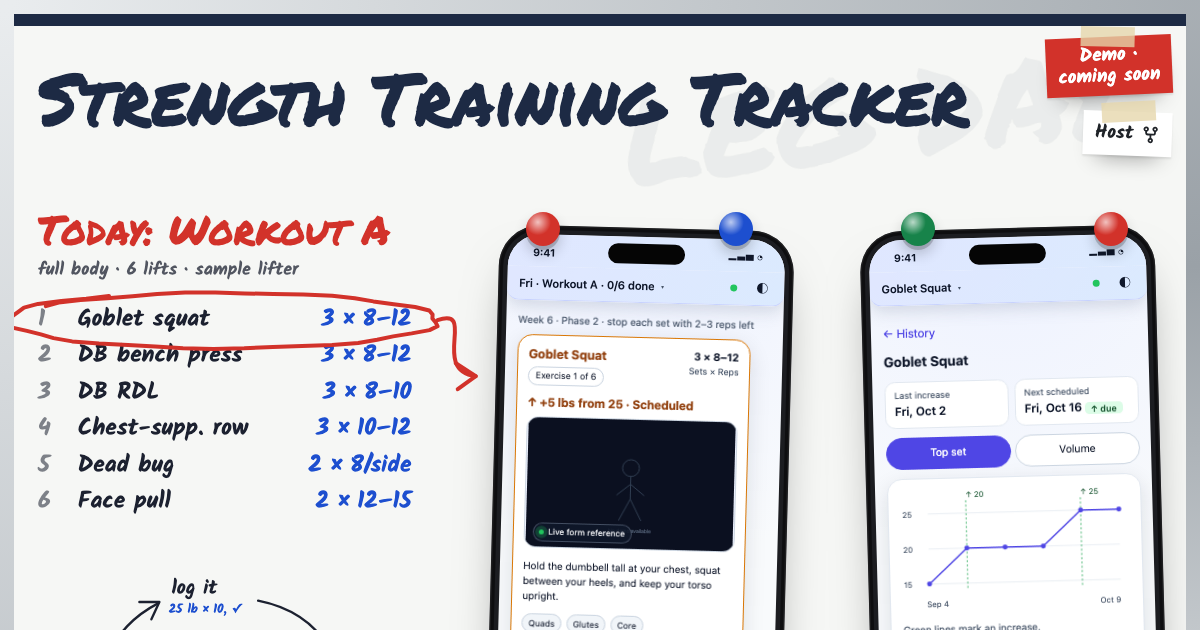
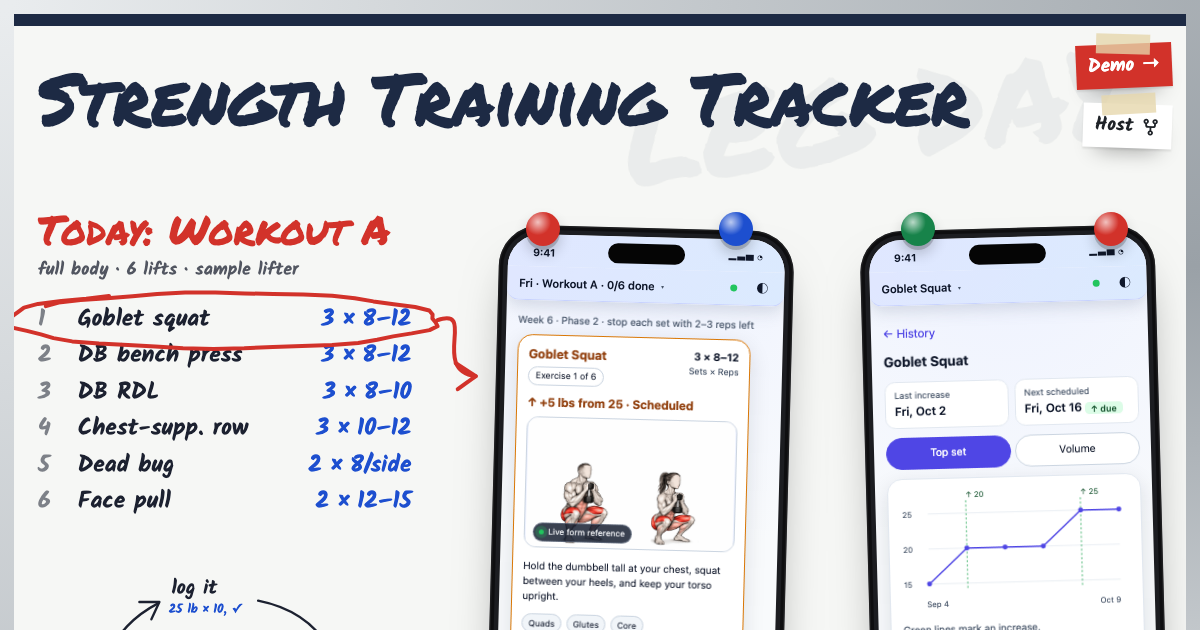
Demo: placeholders link to the full app; landing previews use the demo's art
The demo adds "No animation for this exercise in the demo. Get the full app" (a link to the landing page's
ways section) under each big placeholder image and keeps every Options and TRX list whole. The art list moves to
demo/media.js, shared with the landing page's phone previews, which now show demo/media/ images (and the placeholder
for the rest) instead of trying app/img. landing/preview.png is regenerated (it still said "Demo coming soon").
Spec, README, footnote and media audit updated; tests cover the note and that the landing script requests no app/img.

Changed region(s): [[0.4317, 0.6635, 0.6167, 0.8746], [0.8633, 0.0302, 0.9867, 0.2714]]

diff --git a/landing/phone-preview.js b/landing/phone-preview.js
@@ -6,8 +6,8 @@
 // createPreview() returns a controller. mount() draws a workout or history screen into a container, and every mounted screen shows the
 // same exercise and follows the same slide. The page calls go(i) when someone picks a lift in its list.
 //
-// Images. Every image slot tries the app's own file first (app/img/<file>, which exists on a developer's machine) and falls back to the
-// app's placeholder (PLACEHOLDER_GIF) when it is missing, as it is on GitHub Pages. Each file is tried once.
+// Images. An exercise with original art (demo/media.js lists them) shows its animated figure from demo/media/; every other image slot
+// shows the app's placeholder (PLACEHOLDER_GIF). No third-party image is requested, so the page looks the same everywhere.
 
 import { h } from '../app/js/ui/dom.js';
 import { createDial } from '../app/js/ui/dial.js';
@@ -16,6 +16,7 @@ import { dialNotches, formatNumber } from '../app/js/logging/input.js';
 import { formatDay, increaseText, lastText, phaseText, setsText } from '../app/js/logging/text.js';
 import { EXERCISES, PLACEHOLDER_GIF } from '../app/js/seed/index.js';
 import { WORKOUTS } from '../app/js/seed/program.js';
+import { DEMO_MEDIA, mediaPath } from '../demo/media.js';
 
 // Today in the story is Fri Oct 16. Workout A was done every Friday since Sep 4 (six sessions).
 const DATES = ['2026-09-04', '2026-09-11', '2026-09-18', '2026-09-25', '2026-10-02', '2026-10-09'];
@@ -38,7 +39,7 @@ const SLIDES = slots.map((slot, i) => {
     sets: syn.reps[k].map((reps) => ({ weightLbs: syn.weights[k], reps, levelNumber: null, distanceM: null })),
   }));
   return {
-    id: slot.exercise, index: i, name: ex.name, gifUrl: ex.gifUrl, notes: ex.notes, tags: ex.tags,
+    id: slot.exercise, index: i, name: ex.name, notes: ex.notes, tags: ex.tags,
     prescription: `${slot.sets} × ${slot.reps}`, sets: Number(slot.sets),
     options: slot.alternatives, trx: slot.trxAlternatives,
     increased, next: syn.next, repsNow: syn.repsNow, sessions,
@@ -49,17 +50,11 @@ const SLIDES = slots.map((slot, i) => {
   };
 });
 
-// ---- images: the app's file first, then the placeholder ----
-// The big card images each try their own file. The small thumbnails in the Options and TRX lists only try theirs when the first card's
-// image was found, so a site without app/img (GitHub Pages) makes three failed requests rather than sixteen.
-const known = new Map(); // file -> true when it loaded, false when it did not
-const folderMissing = () => known.get(SLIDES[0].gifUrl) === false;
-function image(gifUrl, props, { thumb = false } = {}) {
-  if (!gifUrl || (thumb && folderMissing())) known.set(gifUrl, false); // no image of its own (as in the app), or the folder is absent
-  const src = `app/${gifUrl}`; // relative to the landing page (the site root)
-  const img = h('img', { alt: '', loading: 'eager', decoding: 'async', referrerpolicy: 'no-referrer', ...props, src: known.get(gifUrl) === false ? PLACEHOLDER_GIF : src });
-  img.addEventListener('error', () => { known.set(gifUrl, false); img.src = PLACEHOLDER_GIF; }, { once: true });
-  img.addEventListener('load', () => { if (!img.src.startsWith('data:')) known.set(gifUrl, true); });
+// ---- images: the demo's own art, else the placeholder ----
+// The path is relative to the landing page (the site root).
+function image(id, props) {
+  const img = h('img', { alt: '', loading: 'eager', decoding: 'async', referrerpolicy: 'no-referrer', ...props, src: DEMO_MEDIA.includes(id) ? `demo/${mediaPath(id)}` : PLACEHOLDER_GIF });
+  img.addEventListener('error', () => { img.src = PLACEHOLDER_GIF; }, { once: true });
   return img;
 }
 
@@ -79,7 +74,7 @@ function altPanel(slide, group) {
   const ids = group === 'trx' ? slide.trx : slide.options;
   return h('div', { class: 'alt-panel', 'data-group': group === 'trx' ? 'trxAlternatives' : 'alternatives', role: 'group' },
     ids.map((id) => h('div', { class: 'alt-item' },
-      h('div', { class: 'alt-thumb' }, image(EXERCISES[id].gifUrl, { width: 56, height: 42 }, { thumb: true })),
+      h('div', { class: 'alt-thumb' }, image(id, { width: 56, height: 42 })),
       h('div', { class: 'alt-name', text: EXERCISES[id].name }),
       h('button', { type: 'button', class: 'alt-use', tabindex: '-1', text: 'Use this' }))));
 }
@@ -103,7 +98,7 @@ function workoutScreen(slide, dials) {
         h('div', { class: 'ex-meta' }, h('strong', { text: slide.prescription }), h('span', { text: 'Sets × Reps' }))),
       slide.increaseText ? h('p', { class: 'up', text: slide.increaseText }) : null),
     h('div', { class: 'ex-media' },
-      h('div', { class: 'gif-wrapper' }, image(slide.gifUrl, { width: 640, height: 400, alt: `${slide.name} demonstration` }), h('div', { class: 'gif-label' }, h('span'), 'Live form reference'))),
+      h('div', { class: 'gif-wrapper' }, image(slide.id, { width: 640, height: 400, alt: `${slide.name} demonstration` }), h('div', { class: 'gif-label' }, h('span'), 'Live form reference'))),
     h('div', { class: 'ex-rest' },
       h('div', { class: 'exercise-body', text: slide.notes }),
       h('div', { class: 'tags' }, slide.tags.map((t) => h('span', { class: 'tag', text: t }))),
@@ -209,14 +204,7 @@ export function createPreview({ interval = 7500 } = {}) {
       return device;
     },
     onChange(fn) { listeners.push(fn); },
-    // The first card's image decides whether app/img exists; wait for that before drawing so the thumbnails know.
     async start() {
-      await new Promise((resolve) => {
-        const probe = new Image();
-        probe.addEventListener('load', () => { known.set(SLIDES[0].gifUrl, true); resolve(); });
-        probe.addEventListener('error', () => { known.set(SLIDES[0].gifUrl, false); resolve(); });
-        probe.src = `app/${SLIDES[0].gifUrl}`;
-      });
       render();
       restart();
     },

diff --git a/demo/demo-ui.js b/demo/demo-ui.js
@@ -3,50 +3,50 @@
 // same Reset button and a link back to the landing page). Kept here, outside app/, so scripts/deploy-app.sh never uploads it.
 
 import { clearProfile, DEMO_PROFILE } from '../app/js/profile.js';
-import { EXERCISES } from '../app/js/seed/index.js';
+import { EXERCISES, PLACEHOLDER_GIF } from '../app/js/seed/index.js';
 import { pacificDate } from '../app/js/time.js';
 import { armedIconButton, h, svgIcon } from '../app/js/ui/dom.js';
 import { buildFixture } from './fixture.js';
+import { DEMO_MEDIA, mediaPath } from './media.js';
+
+export { DEMO_MEDIA, mediaPath };
 
 export const STRIP_TEXT = 'Demo · a fictional lifter · changes stay in this browser';
 export const LANDING_URL = '../';
 const RESET_PATHS = ['M3 12a9 9 0 1 0 3-6.7', 'M3 4v5h5'];
 
-// The demo's own exercise art: original animated figures drawn for this project (demo/media/<exercise id>.gif, MIT with the repository).
-// The catalog's gifUrl values ("img/<name>.gif") point at third-party files that are not published, so the page's copy of the catalog
-// gets the demo's own file for each exercise listed here and no image path for the rest: those image slots show the app's built-in
-// placeholder (PLACEHOLDER_GIF, a data: URI) without asking for a missing file. The art credit goes too, since the demo has no
-// third-party art to credit. Only this page's copy of the catalog changes. Add an id here together with its file.
-export const DEMO_MEDIA = [
-  'back-extension-45',
-  'chest-supported-row',
-  'db-bench-press',
-  'db-romanian-deadlift',
-  'face-pull',
-  'farmer-carry',
-  'goblet-squat',
-  'hip-thrust',
-  'incline-db-press',
-  'lat-pulldown',
-  'leg-press',
-  'machine-chest-press',
-  'machine-high-row',
-  'pushup',
-  'reverse-lunge',
-  'seated-cable-row',
-  'seated-db-shoulder-press',
-  'trap-bar-deadlift',
-];
-
-// Relative to demo/index.html.
-export const mediaUrl = (id) => `media/${id}.gif`;
-
+// The demo's own exercise art (demo/media.js lists it; the files are in demo/media/). The catalog's gifUrl values ("img/<name>.gif")
+// point at third-party files that are not published, so the page's copy of the catalog gets the demo's own file for each listed
+// exercise and no image path for the rest: those image slots show the app's built-in placeholder (PLACEHOLDER_GIF, a data: URI)
+// without asking for a missing file. The art credit goes too, since the demo has no third-party art to credit. Only this page's
+// copy of the catalog changes.
 export function useDemoMedia(exercises = EXERCISES, media = DEMO_MEDIA) {
   for (const [id, exercise] of Object.entries(exercises)) {
-    if (media.includes(id)) exercise.gifUrl = mediaUrl(id);
+    if (media.includes(id)) exercise.gifUrl = mediaPath(id);
     else delete exercise.gifUrl;
     delete exercise.attribution;
   }
+}
+
+// Under every big image that is only the placeholder, a line that says why and where to get the real thing: the landing page's "three
+// ways to run it". The app draws the image; this adds the line next to it, and takes it away again if the image becomes real.
+// markPlaceholders is idempotent, so watchPlaceholders can run it after every change to the page.
+export function markPlaceholders(root = document) {
+  for (const wrapper of root.querySelectorAll('.gif-wrapper')) {
+    const holder = wrapper.parentNode;
+    const note = holder.querySelector('.demo-get-app');
+    const placeholder = wrapper.querySelector('img')?.getAttribute('src') === PLACEHOLDER_GIF;
+    if (placeholder && !note) {
+      holder.append(h('p', { class: 'demo-get-app' }, 'No animation for this exercise in the demo. ', h('a', { href: `${LANDING_URL}#ways`, text: 'Get the full app' })));
+    } else if (!placeholder && note) note.remove();
+  }
+}
+
+export function watchPlaceholders(root = document.body) {
+  if (typeof MutationObserver === 'undefined') return;
+  const observer = new MutationObserver(() => markPlaceholders(root));
+  observer.observe(root, { childList: true, subtree: true, attributes: true, attributeFilter: ['src'] });
+  markPlaceholders(root);
 }
 
 // reload: how the page restarts after a reset (by default, the demo's Home: the same address without the #/route). now: the clock that

diff --git a/index.html b/index.html
@@ -156,7 +156,7 @@
           <a class="marker" style="--c: #d2322a; --r: .8deg" href="https://github.com/kathishah/strength">Fork on GitHub</a>
           <span class="eraser">Demo resets with one tap</span>
         </div>
-        <p class="footnote">Every number on this board is made up. The private instance is separate from the demo and is not a service for forks. Code and docs are MIT licensed; exercise images are not included. The board's fonts (Permanent Marker, Kalam, Atkinson Hyperlegible) are served from this site; their <a href="https://github.com/kathishah/strength/tree/main/landing/fonts">licenses</a> are in the repository.</p>
+        <p class="footnote">Every number on this board is made up. The private instance is separate from the demo and is not a service for forks. Code, docs and the demo's exercise animations are MIT licensed; third-party exercise images are not included. The board's fonts (Permanent Marker, Kalam, Atkinson Hyperlegible) are served from this site; their <a href="https://github.com/kathishah/strength/tree/main/landing/fonts">licenses</a> are in the repository.</p>
       </div>
     </footer>
   </div>

diff --git a/demo/media.js b/demo/media.js
@@ -1,0 +1,26 @@
+// The exercises that have original art in demo/media/<exercise id>.gif: animated figures drawn for this project (MIT with the
+// repository). One list for the demo page and the landing page's phone previews; add an id here together with its file.
+// Every other exercise shows the app's built-in placeholder (PLACEHOLDER_GIF). Paths are relative to demo/.
+
+export const DEMO_MEDIA = [
+  'back-extension-45',
+  'chest-supported-row',
+  'db-bench-press',
+  'db-romanian-deadlift',
+  'face-pull',
+  'farmer-carry',
+  'goblet-squat',
+  'hip-thrust',
+  'incline-db-press',
+  'lat-pulldown',
+  'leg-press',
+  'machine-chest-press',
+  'machine-high-row',
+  'pushup',
+  'reverse-lunge',
+  'seated-cable-row',
+  'seated-db-shoulder-press',
+  'trap-bar-deadlift',
+];
+
+export const mediaPath = (id) => `media/${id}.gif`;

diff --git a/demo/demo.js b/demo/demo.js
@@ -4,7 +4,8 @@
 // See docs/SHOWCASE-AND-SELF-HOST-SPEC.md, section 3. The hooks are in demo-ui.js and the sample history in fixture.js.
 
 import { startApp } from '../app/js/boot.js';
-import { createDemoUi, useDemoMedia } from './demo-ui.js';
+import { createDemoUi, useDemoMedia, watchPlaceholders } from './demo-ui.js';
 
 useDemoMedia();
+watchPlaceholders();
 startApp({ mode: 'demo', ui: createDemoUi() });

diff --git a/demo/demo.css b/demo/demo.css
@@ -20,3 +20,7 @@
 .demo-about p { margin: 0 0 10px; }
 .demo-about h3 { margin-top: 0; }
 .demo-about .actions { margin-top: 14px; }
+
+/* The line under an exercise image that is only the placeholder (demo-ui.js, markPlaceholders). */
+.demo-get-app { margin: 6px 0 0; font-size: 0.75rem; line-height: 1.3; color: var(--muted); }
+.demo-get-app a { color: var(--accent); font-weight: 600; }

diff --git a/docs/SHOWCASE-AND-SELF-HOST-SPEC.md b/docs/SHOWCASE-AND-SELF-HOST-SPEC.md
@@ -58,11 +58,11 @@ On desktop the list sits above the loop on the left, with both phones to the rig
 
 **Decisions for the first release.**
 
-- **Media:** each exercise image slot shows the app's built-in placeholder (`PLACEHOLDER_GIF` in `app/js/seed/catalog.js`). The page tries `app/img/<file>` first, so local copies still show during development, and falls back to the placeholder when the file is missing, as it is on GitHub Pages. Real media can replace the placeholder later without changing the page, once its rights are recorded under section 6.
+- **Media:** an exercise listed in `DEMO_MEDIA` (`demo/media.js`) shows its original animation from `demo/media/<id>.gif`; every other image slot shows the app's built-in placeholder (`PLACEHOLDER_GIF` in `app/js/seed/catalog.js`). The page requests no third-party or `app/img/` image, so it looks the same on GitHub Pages and on a developer's machine. The three rotating lifts (goblet squat, dumbbell bench press, dumbbell Romanian deadlift) all have art.
 - **Description:** "An open-source strength training tracker: log sets and reps on your phone, see how each lift moves, and start every session from your own numbers." It is not shown on the page. It goes in the `<meta name="description">` tag (the snippet under the title in search results), the Open Graph and Twitter card description (shared-link previews), and JSON-LD `SoftwareApplication` structured data. It is not hidden text in the page body.
 - **Fonts:** served from the site itself rather than Google Fonts, so the page makes no third-party requests. Kalam and Atkinson Hyperlegible use the SIL Open Font License; Permanent Marker uses the Apache License 2.0. Each license text ships beside the font files in `landing/fonts/`.
 - **Page metadata:** the title is **Strength Training Tracker**, with a canonical URL and a favicon.
-- **Link-preview image:** a 1200×630 screenshot of the page's hero: the marker banner with its taped tags, the Today list with the red circle, and the two phones, showing placeholder images and synthetic data. Regenerate it whenever the hero changes.
+- **Link-preview image:** a 1200×630 screenshot of the page's hero: the marker banner with its taped tags, the Today list with the red circle, and the two phones, showing the demo's exercise animations and synthetic data. Regenerate it whenever the hero changes.
 - **Files:** the root `index.html`, plus a `landing/` folder for the page's script and styles (including the phone preview, which the demo can reuse later), self-hosted fonts and the preview image.
 
 **Before launch.**
@@ -129,7 +129,7 @@ Today's workout is the next one in the rotation, with nothing logged yet.
 
 **Demo label and reset.** A strip above the app header on every screen reads "Demo · a fictional lifter · changes stay in this browser" and holds a **Reset demo** button. Reset uses the app's two-tap armed button (`armedIconButton`): the first tap shows "Tap again to reset", the second deletes the `strength-demo` database and `strength-demo.*` keys, rebuilds the fixture, and reloads the page. The header's save chip reads "Demo" instead of a sync state. Settings shows a short explanation of the demo, the same Reset button, and a link back to the landing page.
 
-**Images.** The demo has its own exercise art: original animated GIFs (male and female musculature, worked muscles in red) in `demo/media/<exercise id>.gif`, listed in `DEMO_MEDIA` in `demo/demo-ui.js`, drawn for this project and released under the repository's MIT license. The page's copy of the catalog points each listed exercise at its file; every other image slot shows the app's placeholder (`PLACEHOLDER_GIF`), and no third-party image path or art credit appears. The files are outside `app/`, so the app's deploy and service worker never include them.
+**Images.** The demo has its own exercise art: original animated GIFs (male and female musculature, worked muscles in red) in `demo/media/<exercise id>.gif`, listed in `DEMO_MEDIA` in `demo/media.js`, drawn for this project and released under the repository's MIT license. The page's copy of the catalog points each listed exercise at its file; every other image slot shows the app's placeholder (`PLACEHOLDER_GIF`) with a line under it, "No animation for this exercise in the demo. Get the full app", that links to the landing page's "three ways to run it" section (`markPlaceholders` in `demo/demo-ui.js`). Options and TRX lists stay complete; their small thumbnails show art or the placeholder without a line. No third-party image path or art credit appears. The list lives in `demo/media.js`, which the landing page's phone previews share. The files are outside `app/`, so the app's deploy and service worker never include them.
 
 **Tests.**
 

diff --git a/README.md b/README.md
@@ -16,7 +16,7 @@ Setup for all three is in the [self-hosting guide](docs/SELF-HOSTING.md).
 
 ## Local preview
 
-Exercise images are third-party media and are not included. The app uses a built-in placeholder when local image files are absent. To preview the app in local-only mode:
+The app's own exercise images (`app/img/`) are third-party media and are not included; the app uses a built-in placeholder when local image files are absent. The demo and the landing page use original animations in `demo/media/`. To preview the app in local-only mode:
 
 ```sh
 python3 -m http.server 4173 --directory app
@@ -50,4 +50,4 @@ Per-deployment settings live in a git-ignored `private/` folder, so the reposito
 
 ## License
 
-The original code and documentation in this repository are licensed under the [MIT License](LICENSE). This license does not grant rights to third-party exercise images, trademarks, or other external assets; those remain subject to their respective rights holders and terms. Exercise media is skipped by default; see [the media rights audit](docs/MEDIA-RIGHTS-AUDIT.md). The landing page's fonts have their own licenses, in `landing/fonts/`.
+The original code and documentation in this repository are licensed under the [MIT License](LICENSE). This license does not grant rights to third-party exercise images, trademarks, or other external assets (the original animations in `demo/media/` are part of the MIT-licensed repository); those remain subject to their respective rights holders and terms. Exercise media is skipped by default; see [the media rights audit](docs/MEDIA-RIGHTS-AUDIT.md). The landing page's fonts have their own licenses, in `landing/fonts/`.

diff --git a/docs/MEDIA-RIGHTS-AUDIT.md b/docs/MEDIA-RIGHTS-AUDIT.md
@@ -4,9 +4,9 @@
 
 ## Original art in the demo
 
-The public demo uses a separate, original set: animated GIFs of anatomical figures with the worked muscles in red, created by the repository owner for this project and released under the repository's MIT license. They are in `demo/media/<exercise id>.gif` (listed in `DEMO_MEDIA` in `demo/demo-ui.js`), are not derived from any file in the inventory below, and are not part of the app's deploy. The 58 third-party images below stay uncleared and stay out of the demo.
+The public demo uses a separate, original set: animated GIFs of anatomical figures with the worked muscles in red, created by the repository owner for this project and released under the repository's MIT license. They are in `demo/media/<exercise id>.gif` (listed in `DEMO_MEDIA` in `demo/media.js`), are not derived from any file in the inventory below, and are not part of the app's deploy. The 58 third-party images below stay uncleared and stay out of the demo.
 
-Per-file record: `goblet-squat`, `db-bench-press`, `db-romanian-deadlift`, `incline-db-press`, `reverse-lunge`, `leg-press`, `seated-cable-row`, `farmer-carry`: creator is the repository owner; license is MIT with the repository; no attribution required.
+Per-file record: every file in `demo/media/` (18 exercises): creator is the repository owner; license is MIT with the repository; no attribution required.
 
 ## Inventory
 
